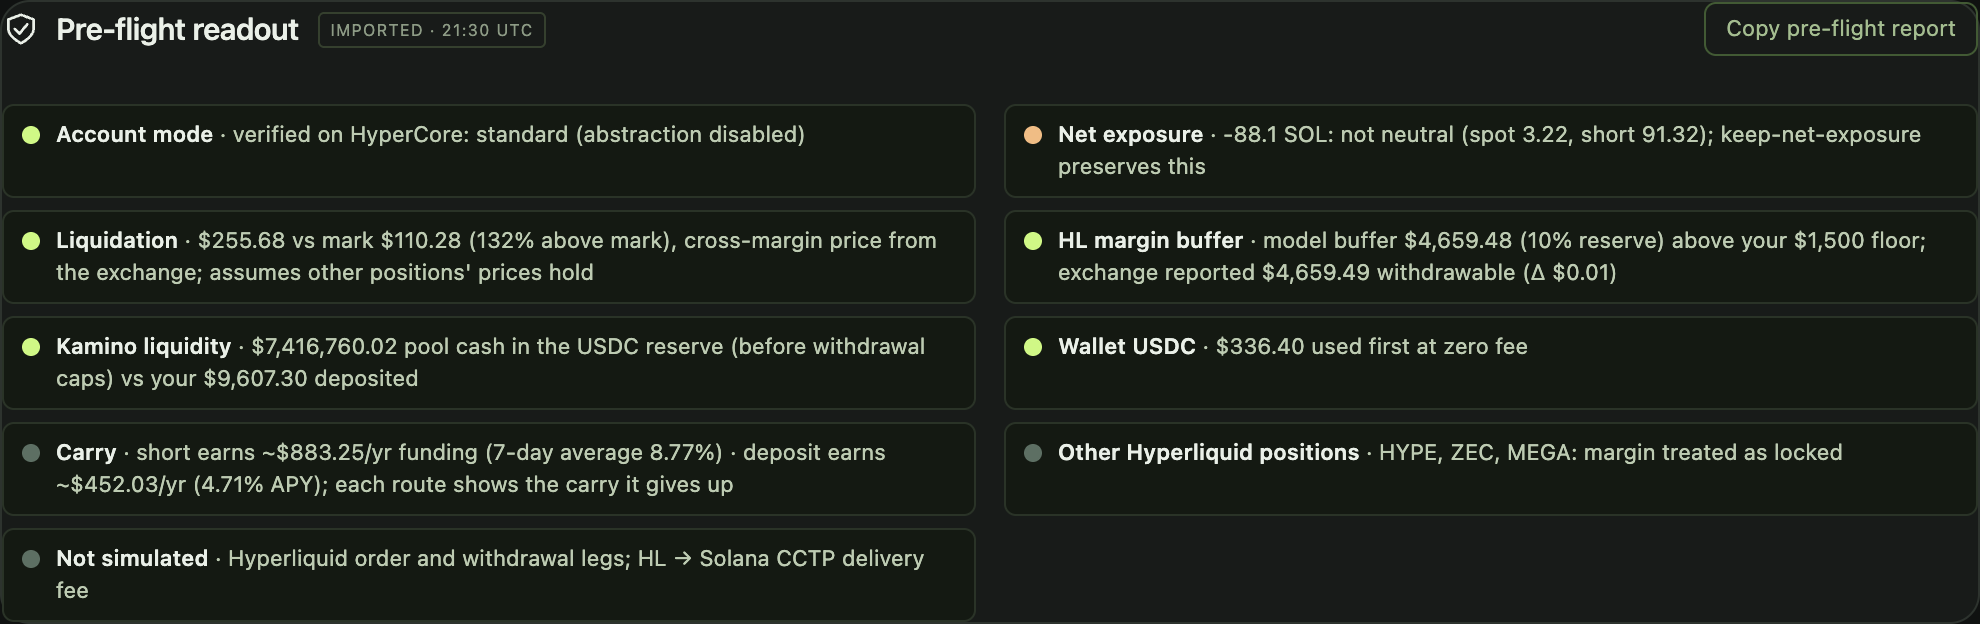
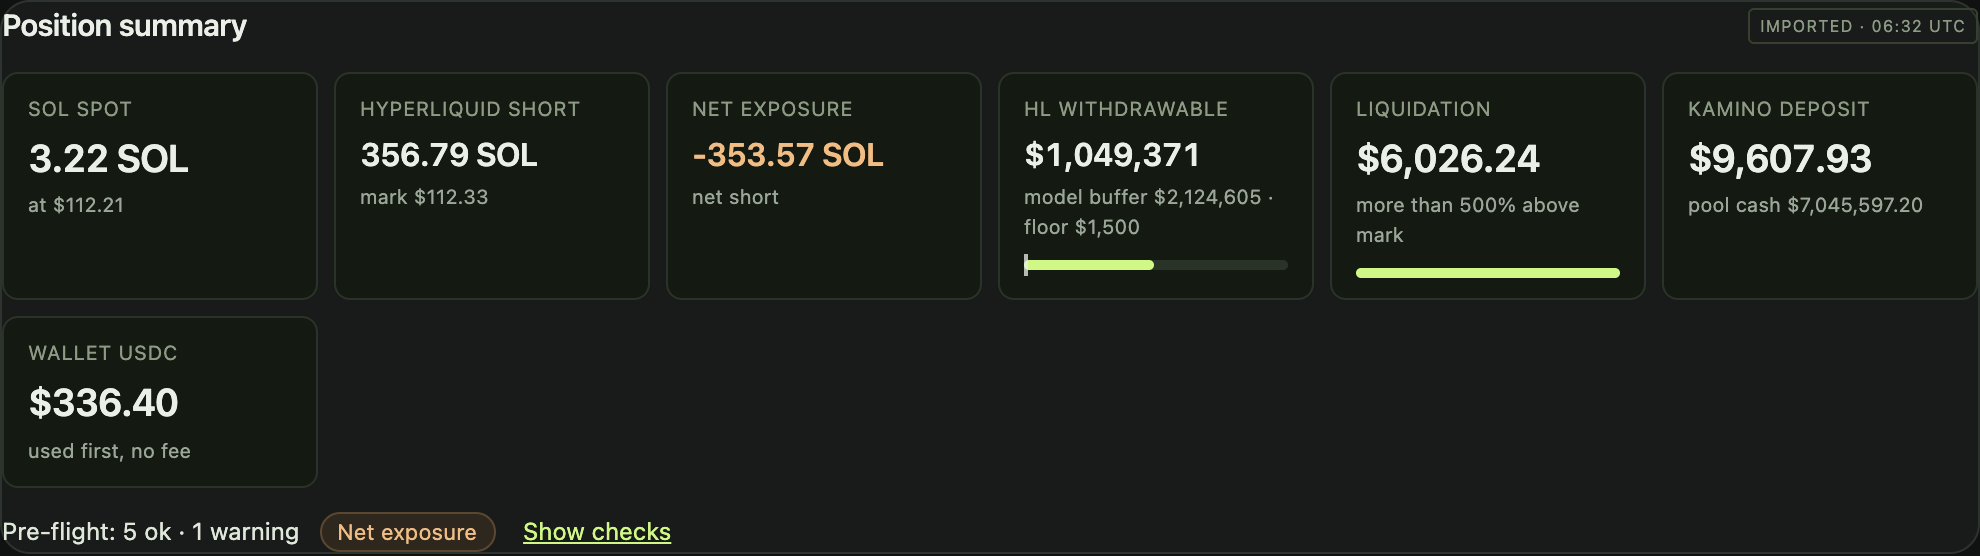
docs: README screenshots and demo script follow the new summary strip and collapsed checks
Claude-Session: https://claude.ai/code/session_01KCfc7KnijhoWb2SS3Y5Vja

diff --git a/README.md b/README.md
@@ -8,7 +8,9 @@ Phantom put Hyperliquid perps one tap away from Solana spot, so a common positio
 
 You give ExitPlan a **cash goal plus the limits you refuse to break** (new-debt cap, keep net SOL exposure, keep-SOL-quantity, minimum margin buffer). It reads both chains by address, evaluates up to dozens of routes, shows every route that fits and every route that does not, with the reason, and rehearses the chosen route with real `simulateTransaction` runs for the Solana legs. Nothing is signed or sent. Standard and Unified Hyperliquid accounts are supported; portfolio margin is not modelled.
 
-![Pre-flight readout on a live standard account: account mode verified, net exposure, liquidation distance, margin buffer against the floor next to the exchange's withdrawable, Kamino pool cash, wallet USDC, carry](docs/images/preflight-readout.png)
+![Position summary on a live standard account: SOL spot, Hyperliquid short, net exposure, HL withdrawable with the model buffer and floor meter, liquidation distance, Kamino deposit, wallet USDC, and the pre-flight check summary](docs/images/preflight-readout.png)
+
+![The pre-flight checks expanded: account mode, net exposure, liquidation, HL margin buffer against the exchange's withdrawable, Kamino pool cash, wallet USDC, carry, other positions, not simulated](docs/images/preflight-checks.png)
 
 <p align="center"><img src="docs/images/rehearsal-hyperliquid.png" width="49%" alt="Rehearsal, Hyperliquid step: the live order book walked for a 1.5 SOL buy-back, taker fee, cost against the plan, book age, and the unsigned reduce-only IOC order"> <img src="docs/images/rehearsal-solana.png" width="49%" alt="Rehearsal, Solana step: the Jupiter swap simulated with simulateTransaction, quoted USDC against the plan estimate, and a Solana Explorer inspector link for the unsigned transaction"></p>
 

diff --git a/docs/demo-video-script.md b/docs/demo-video-script.md
@@ -10,7 +10,7 @@ Screen recording of https://exitplan-rouge.vercel.app at 1440×900. **Reload pos
 Caption over Phantom: "Long SOL · short SOL on Hyperliquid · need $X tonight."
 
 **0:10 – 0:40 · Load real positions**
-Portfolio source → *Import by address* (or the deep link `#sol=…&hl=…&target=…`, or *Connect wallet (read-only)*). Load. Walk the pre-flight readout top to bottom: account mode verified, net exposure, liquidation distance, margin buffer against your floor with the exchange's own withdrawable beside it, Kamino pool cash, wallet USDC, carry (funding the short earns, yield the deposit earns), what is not simulated. Open *How it is calculated*: your taker rate, the 0.01 SOL lot, sources. Say: "No API keys, no custody. Both venues are public state."
+Portfolio source → *Import by address* (or the deep link `#sol=…&hl=…&target=…`, or *Connect wallet (read-only)*). Load. Read the position summary strip left to right (SOL spot, short, net exposure, HL withdrawable with the buffer meter, liquidation distance, Kamino deposit, wallet USDC), then press *Show checks* and read the pre-flight line: account mode verified, net exposure, liquidation, margin buffer against your floor with the exchange's own withdrawable beside it, Kamino pool cash, carry, what is not simulated. Open *How it is calculated*: your taker rate, the 0.01 SOL lot, sources. Say: "No API keys, no custody. Both venues are public state."
 
 **0:40 – 1:10 · Compare, reject, relax**
 Set the target with keep-SOL on → no route. Click a rejected route and read one reason aloud. Click the suggestion under the banner ("Allow selling SOL, keep net exposure") → a paired route appears: sell N SOL, reduce the short by N (a 0.01 multiple), net exposure unchanged, margin buffer before and after, "carry given up" on the card.
